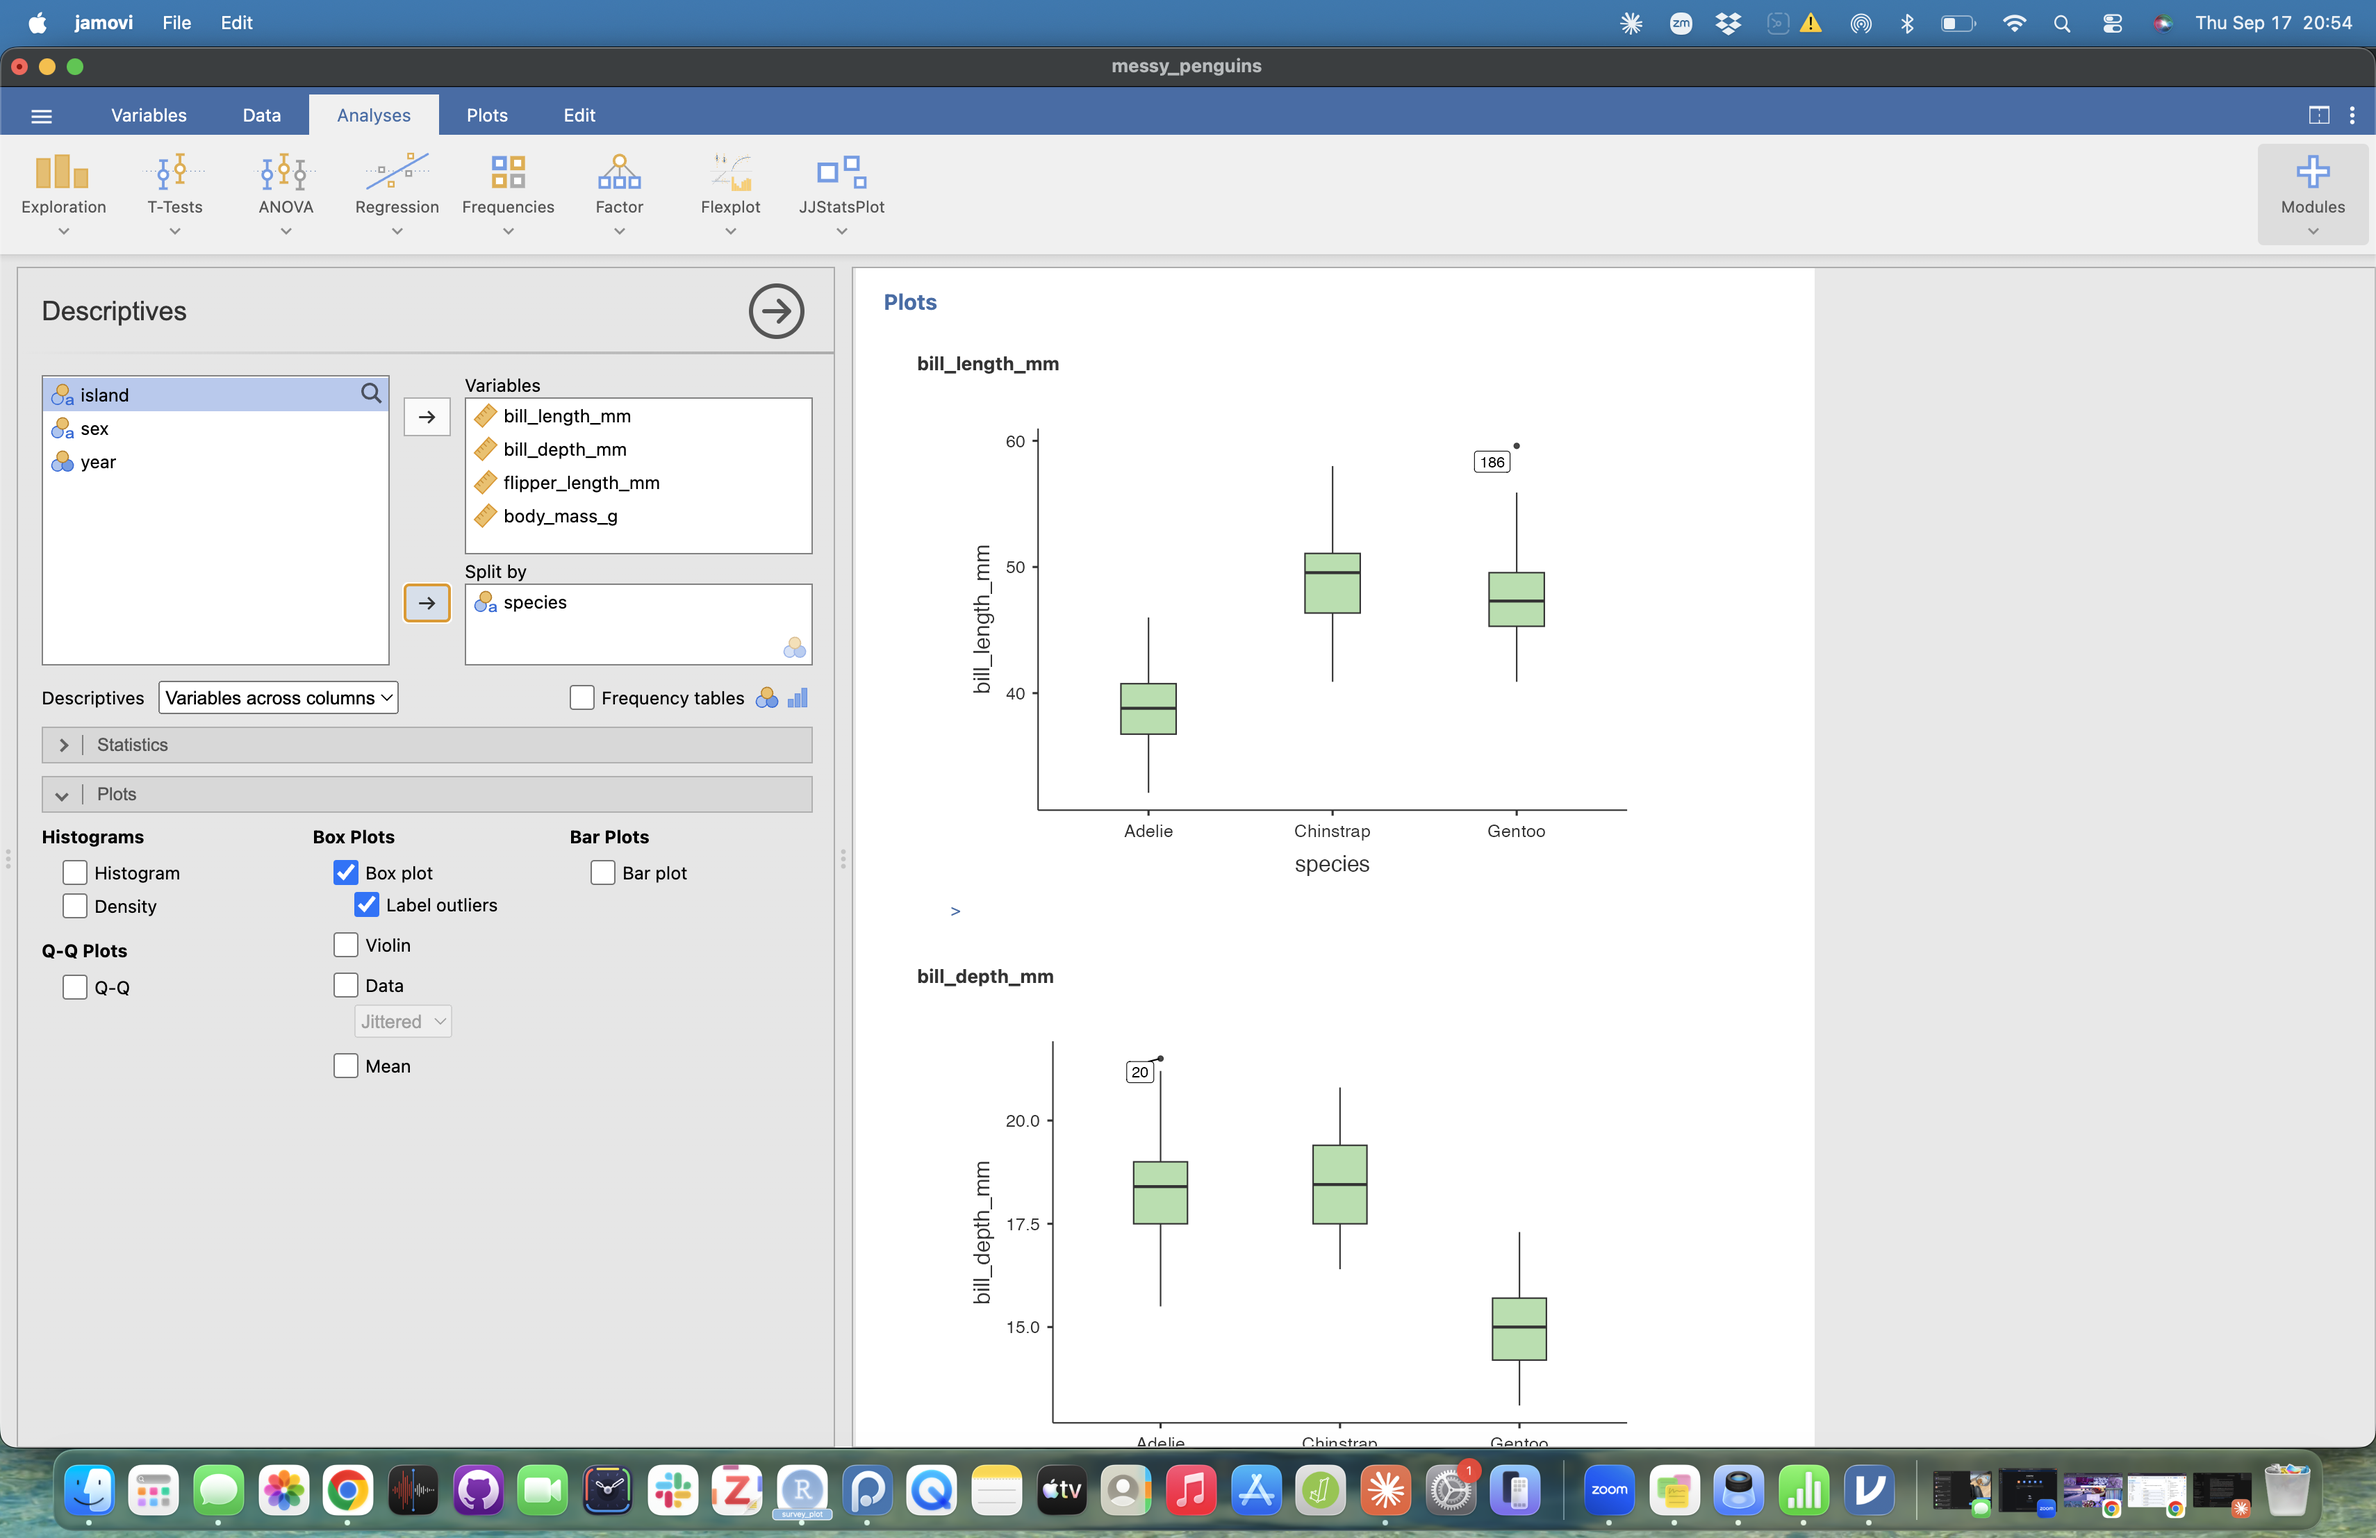
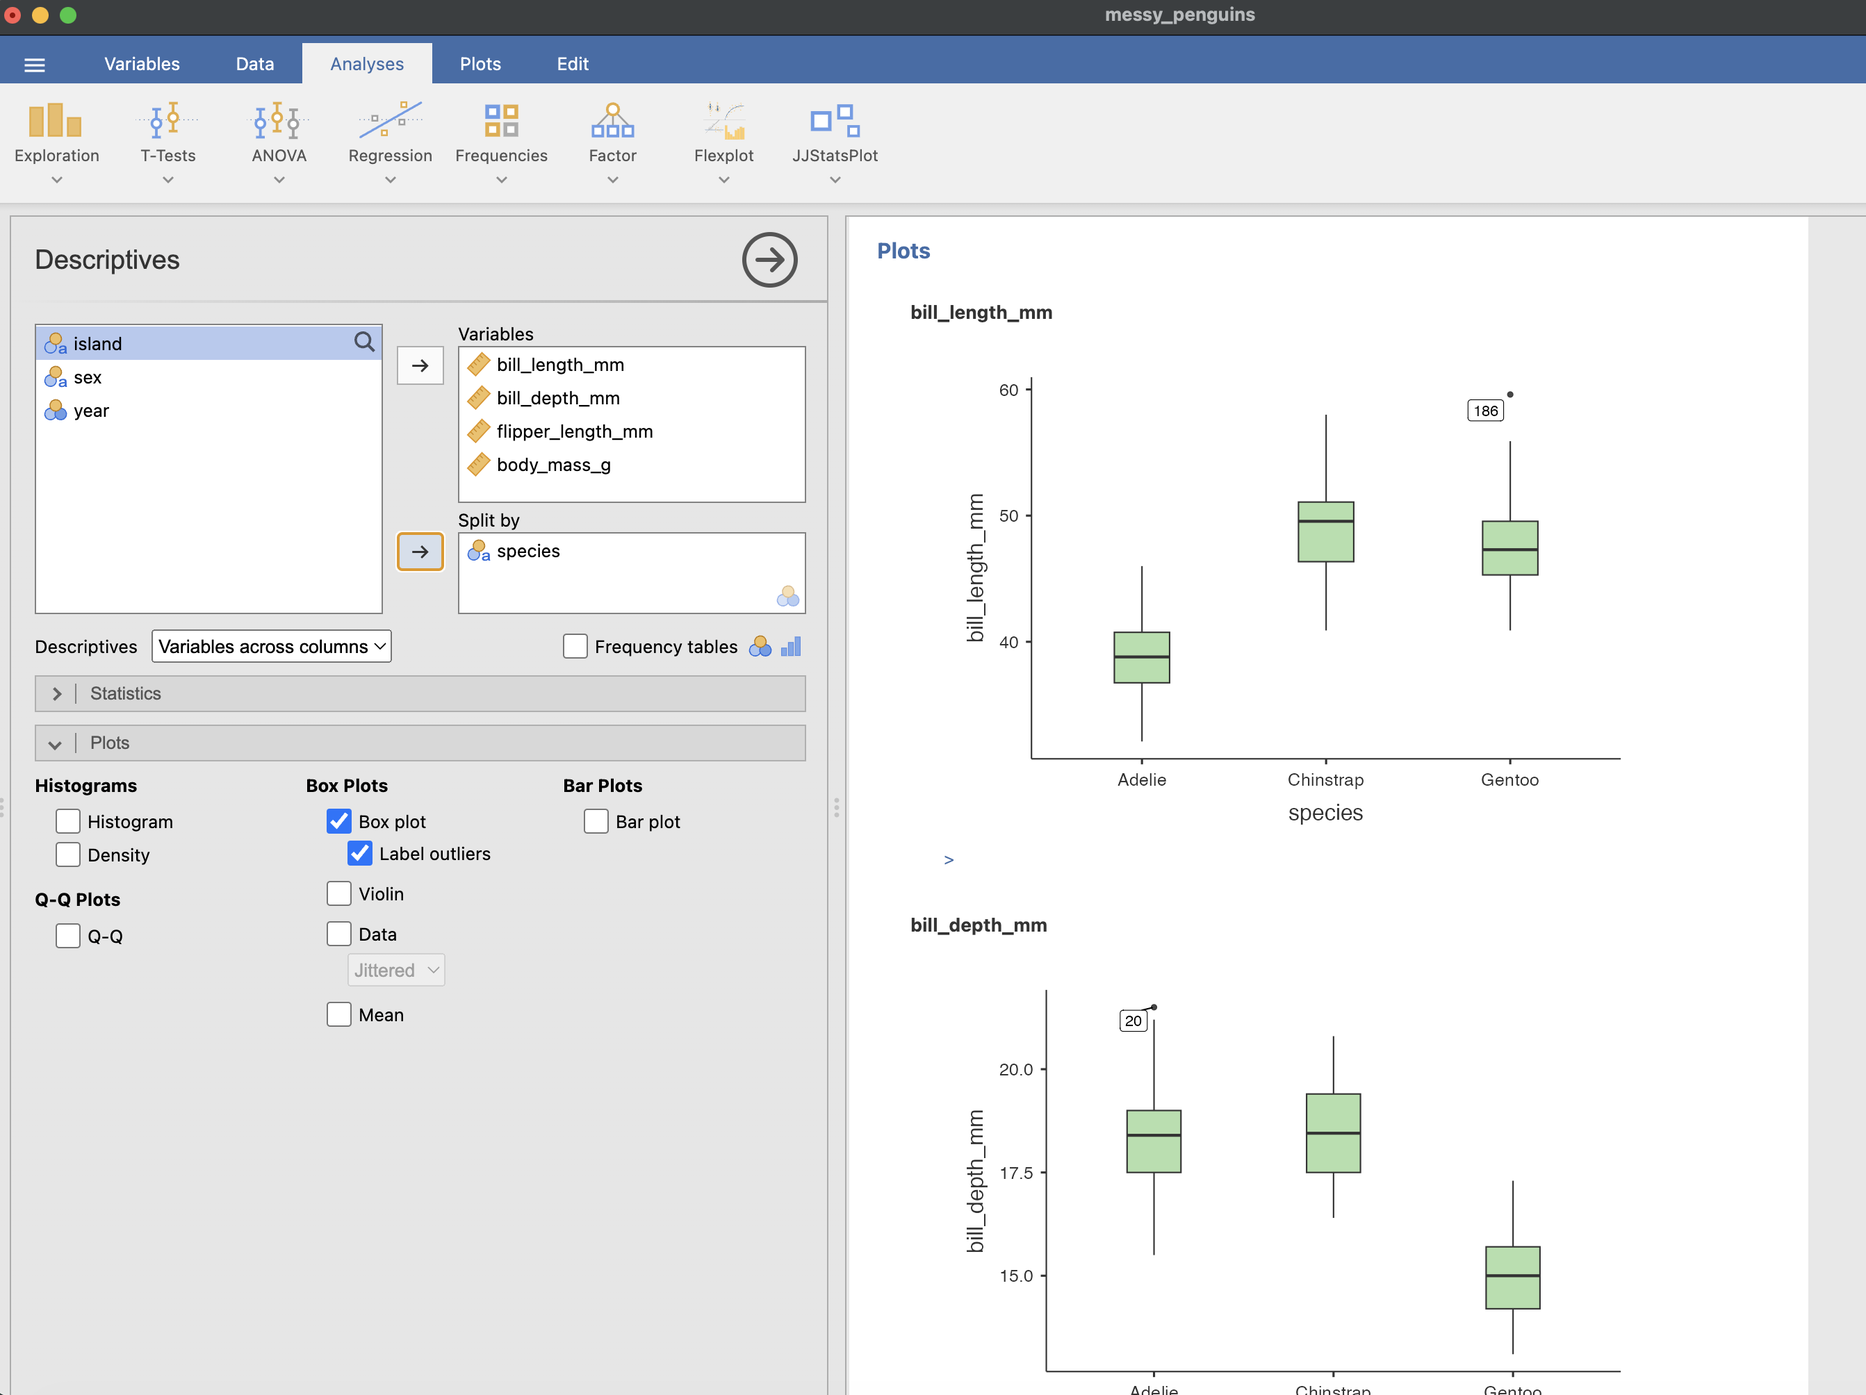
add your turn

diff --git a/_book/story_jamovi.html b/_book/story_jamovi.html
@@ -7,7 +7,7 @@
 <meta name="viewport" content="width=device-width, initial-scale=1.0, user-scalable=yes">
 
 
-<title>5&nbsp; jamovi – plotting for survey research</title>
+<title>jamovi – plotting for survey research</title>
 <style>
 /* Default styles provided by pandoc.
 ** See https://pandoc.org/MANUAL.html#variables-for-html for config info.
@@ -84,7 +84,7 @@ ul.task-list li input[type="checkbox"] {
       <button type="button" class="quarto-btn-toggle btn" data-bs-toggle="collapse" role="button" data-bs-target=".quarto-sidebar-collapse-item" aria-controls="quarto-sidebar" aria-expanded="false" aria-label="Toggle sidebar navigation" onclick="if (window.quartoToggleHeadroom) { window.quartoToggleHeadroom(); }">
         <i class="bi bi-layout-text-sidebar-reverse"></i>
       </button>
-        <nav class="quarto-page-breadcrumbs" aria-label="breadcrumb"><ol class="breadcrumb"><li class="breadcrumb-item"><a href="./story_ggplot.html">Tell a story</a></li><li class="breadcrumb-item"><a href="./story_jamovi.html"><span class="chapter-number">5</span>&nbsp; <span class="chapter-title">jamovi</span></a></li></ol></nav>
+        <nav class="quarto-page-breadcrumbs" aria-label="breadcrumb"><ol class="breadcrumb"><li class="breadcrumb-item"><a href="./story_ggplot.html">tell a story</a></li><li class="breadcrumb-item"><a href="./story_jamovi.html"><span class="chapter-title">jamovi</span></a></li></ol></nav>
         <a class="flex-grow-1" role="navigation" data-bs-toggle="collapse" data-bs-target=".quarto-sidebar-collapse-item" aria-controls="quarto-sidebar" aria-expanded="false" aria-label="Toggle sidebar navigation" onclick="if (window.quartoToggleHeadroom) { window.quartoToggleHeadroom(); }">      
         </a>
       <button type="button" class="btn quarto-search-button" aria-label="Search" onclick="window.quartoOpenSearch();">
@@ -111,14 +111,13 @@ ul.task-list li input[type="checkbox"] {
     <ul class="list-unstyled mt-1">
         <li class="sidebar-item">
   <div class="sidebar-item-container"> 
-  <a href="./index.html" class="sidebar-item-text sidebar-link">
- <span class="menu-text"><span class="chapter-number">1</span>&nbsp; <span class="chapter-title">why plot your data?</span></span></a>
+  <a href="./index.html" class="sidebar-item-text sidebar-link"><span class="chapter-title">why plot your data?</span></a>
   </div>
 </li>
         <li class="sidebar-item sidebar-item-section">
       <div class="sidebar-item-container"> 
             <a class="sidebar-item-text sidebar-link text-start" data-bs-toggle="collapse" data-bs-target="#quarto-sidebar-section-1" role="navigation" aria-expanded="true">
- <span class="menu-text">Check your data</span></a>
+ <span class="menu-text">check your data</span></a>
           <a class="sidebar-item-toggle text-start" data-bs-toggle="collapse" data-bs-target="#quarto-sidebar-section-1" role="navigation" aria-expanded="true" aria-label="Toggle section">
             <i class="bi bi-chevron-right ms-2"></i>
           </a> 
@@ -126,14 +125,12 @@ ul.task-list li input[type="checkbox"] {
       <ul id="quarto-sidebar-section-1" class="collapse list-unstyled sidebar-section depth1 show">  
           <li class="sidebar-item">
   <div class="sidebar-item-container"> 
-  <a href="./checks_ggplot.html" class="sidebar-item-text sidebar-link">
- <span class="menu-text"><span class="chapter-number">2</span>&nbsp; <span class="chapter-title">ggplot</span></span></a>
+  <a href="./checks_ggplot.html" class="sidebar-item-text sidebar-link"><span class="chapter-title">ggplot</span></a>
   </div>
 </li>
           <li class="sidebar-item">
   <div class="sidebar-item-container"> 
-  <a href="./checks_jamovi.html" class="sidebar-item-text sidebar-link">
- <span class="menu-text"><span class="chapter-number">3</span>&nbsp; <span class="chapter-title">jamovi</span></span></a>
+  <a href="./checks_jamovi.html" class="sidebar-item-text sidebar-link"><span class="chapter-title">jamovi</span></a>
   </div>
 </li>
       </ul>
@@ -141,7 +138,7 @@ ul.task-list li input[type="checkbox"] {
         <li class="sidebar-item sidebar-item-section">
       <div class="sidebar-item-container"> 
             <a class="sidebar-item-text sidebar-link text-start" data-bs-toggle="collapse" data-bs-target="#quarto-sidebar-section-2" role="navigation" aria-expanded="true">
- <span class="menu-text">Tell a story</span></a>
+ <span class="menu-text">tell a story</span></a>
           <a class="sidebar-item-toggle text-start" data-bs-toggle="collapse" data-bs-target="#quarto-sidebar-section-2" role="navigation" aria-expanded="true" aria-label="Toggle section">
             <i class="bi bi-chevron-right ms-2"></i>
           </a> 
@@ -149,14 +146,12 @@ ul.task-list li input[type="checkbox"] {
       <ul id="quarto-sidebar-section-2" class="collapse list-unstyled sidebar-section depth1 show">  
           <li class="sidebar-item">
   <div class="sidebar-item-container"> 
-  <a href="./story_ggplot.html" class="sidebar-item-text sidebar-link">
- <span class="menu-text"><span class="chapter-number">4</span>&nbsp; <span class="chapter-title">ggplot</span></span></a>
+  <a href="./story_ggplot.html" class="sidebar-item-text sidebar-link"><span class="chapter-title">ggplot</span></a>
   </div>
 </li>
           <li class="sidebar-item">
   <div class="sidebar-item-container"> 
-  <a href="./story_jamovi.html" class="sidebar-item-text sidebar-link active">
- <span class="menu-text"><span class="chapter-number">5</span>&nbsp; <span class="chapter-title">jamovi</span></span></a>
+  <a href="./story_jamovi.html" class="sidebar-item-text sidebar-link active"><span class="chapter-title">jamovi</span></a>
   </div>
 </li>
       </ul>
@@ -172,9 +167,9 @@ ul.task-list li input[type="checkbox"] {
 <!-- main -->
 <main class="content" id="quarto-document-content">
 
-<header id="title-block-header" class="quarto-title-block default"><nav class="quarto-page-breadcrumbs quarto-title-breadcrumbs d-none d-lg-block" aria-label="breadcrumb"><ol class="breadcrumb"><li class="breadcrumb-item"><a href="./story_ggplot.html">Tell a story</a></li><li class="breadcrumb-item"><a href="./story_jamovi.html"><span class="chapter-number">5</span>&nbsp; <span class="chapter-title">jamovi</span></a></li></ol></nav>
+<header id="title-block-header" class="quarto-title-block default"><nav class="quarto-page-breadcrumbs quarto-title-breadcrumbs d-none d-lg-block" aria-label="breadcrumb"><ol class="breadcrumb"><li class="breadcrumb-item"><a href="./story_ggplot.html">tell a story</a></li><li class="breadcrumb-item"><a href="./story_jamovi.html"><span class="chapter-title">jamovi</span></a></li></ol></nav>
 <div class="quarto-title">
-<h1 class="title"><span class="chapter-number">5</span>&nbsp; <span class="chapter-title">jamovi</span></h1>
+<h1 class="title"><span class="chapter-title">jamovi</span></h1>
 </div>
 
 
@@ -191,6 +186,7 @@ ul.task-list li input[type="checkbox"] {
 </header>
 
 
+<p>To be continued…</p>
 
 
 
@@ -598,7 +594,7 @@ ul.task-list li input[type="checkbox"] {
 <nav class="page-navigation">
   <div class="nav-page nav-page-previous">
       <a href="./story_ggplot.html" class="pagination-link" aria-label="ggplot">
-        <i class="bi bi-arrow-left-short"></i> <span class="nav-page-text"><span class="chapter-number">4</span>&nbsp; <span class="chapter-title">ggplot</span></span>
+        <i class="bi bi-arrow-left-short"></i> <span class="nav-page-text"><span class="chapter-title">ggplot</span></span>
       </a>          
   </div>
   <div class="nav-page nav-page-next">

diff --git a/_book/story_ggplot.html b/_book/story_ggplot.html
@@ -224,6 +224,7 @@ pre > code.sourceCode > span > a:first-child::before { text-decoration: underlin
   <li><a href="#export-1" id="toc-export-1" class="nav-link" data-scroll-target="#export-1">export</a></li>
   </ul></li>
   </ul></li>
+  <li><a href="#your-turn" id="toc-your-turn" class="nav-link" data-scroll-target="#your-turn">your turn</a></li>
   </ul>
 </nav>
     </div>
@@ -386,10 +387,14 @@ pre > code.sourceCode > span > a:first-child::before { text-decoration: underlin
 <div class="cell">
 <div class="code-copy-outer-scaffold"><div class="sourceCode cell-code" id="cb8"><pre class="sourceCode r code-with-copy"><code class="sourceCode r"><span id="cb8-1"><a href="#cb8-1" aria-hidden="true" tabindex="-1"></a><span class="fu">ggsave</span>(<span class="st">"penguin_rain.png"</span>)</span></code></pre></div><button title="Copy to Clipboard" class="code-copy-button"><i class="bi"></i></button></div>
 </div>
-
-
 </section>
 </section>
+</section>
+<section id="your-turn" class="level1">
+<h1>your turn</h1>
+<p>Use this link to access a <a href="https://posit.cloud/content/12942403">Posit Cloud project</a> where you can try this out with your own data. Use script_your_data.R to read your data and play around with plotting to check your data and tell your story. All the packages you need are already installed. Just sign up for a Cloud account using your email account.</p>
+
+
 </section>
 
 </main> <!-- /main -->

diff --git a/_book/checks_ggplot.html b/_book/checks_ggplot.html
@@ -218,6 +218,7 @@ pre > code.sourceCode > span > a:first-child::before { text-decoration: underlin
   </ul></li>
   </ul></li>
   <li><a href="#summary" id="toc-summary" class="nav-link" data-scroll-target="#summary">summary</a></li>
+  <li><a href="#your-turn" id="toc-your-turn" class="nav-link" data-scroll-target="#your-turn">your turn</a></li>
   </ul>
 </nav>
     </div>
@@ -627,6 +628,10 @@ Table&nbsp;5.1: Six ways data can be wrong — and the plot that catches each
 </div>
 </figure>
 </div>
+</section>
+<section id="your-turn" class="level1">
+<h1>your turn</h1>
+<p>Use this link to access a <a href="https://posit.cloud/content/12942403">Posit Cloud project</a> where you can try this out with your own data. Use script_your_data.R to read your data and play around with plotting to check your data and tell your story. All the packages you need are already installed. Just sign up for a Cloud account using your email account.</p>
 
 
 </section>
